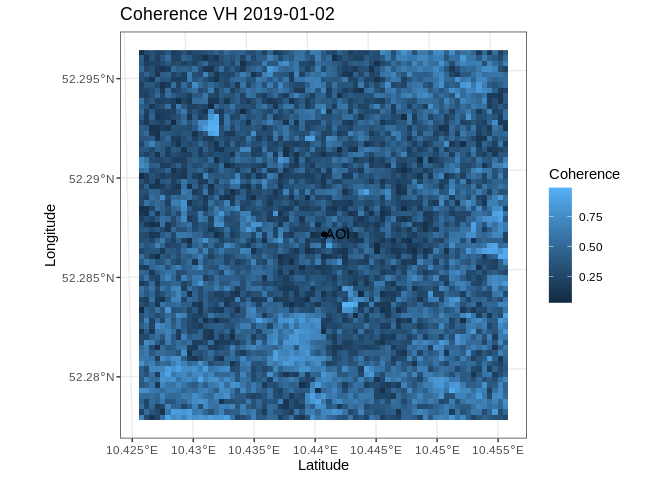
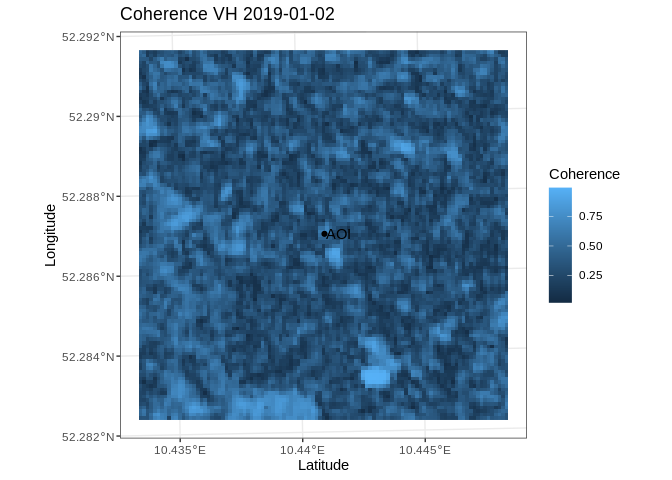
Update README

diff --git a/README.md b/README.md
@@ -58,11 +58,10 @@ library(rcodede)
 scenes <-
   getScenes(
     aoi = aoi,
-    bufferDist = 100,
+    bufferDist = 300,
     startDate = "2019-01-01",
     endDate = "2019-01-31",
-    productType = "SLC",
-    view = FALSE
+    productType = "SLC"
   )
 
 # load ggplot library
@@ -131,10 +130,10 @@ coherence <-
     slave = scenes.filtered$productPath[2],
     outputDirectory = "/home/",
     fileName = "coherence.tif",
+    resolution = 10,
     polarisation = "VH",
-    swath = "all",
     aoi = aoi,
-    aoiBuffer = 1000,
+    aoiBuffer = 500,
     numCores = 6,
     maxMemory = 32,
     execute = TRUE,
@@ -150,12 +149,11 @@ processed:
 ggplot() +
   geom_raster(data = coherence %>% raster::as.data.frame(xy = TRUE),
               aes(x = x, y = y, fill = layer)) +
-  geom_sf(data = aoi %>% st_transform(st_crs(coherence)),
-          show.legend = "AOI") +
+  geom_sf(data = aoi %>% st_transform(st_crs(coherence))) +
   geom_sf_text(
     data = aoi %>% st_transform(st_crs(coherence)),
     label = "AOI",
-    nudge_x = 75
+    nudge_x = 40
   ) +
   labs(
     x = "Latitude",
